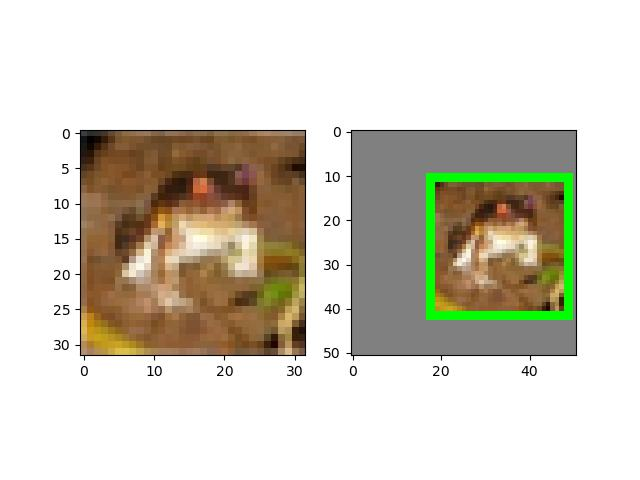
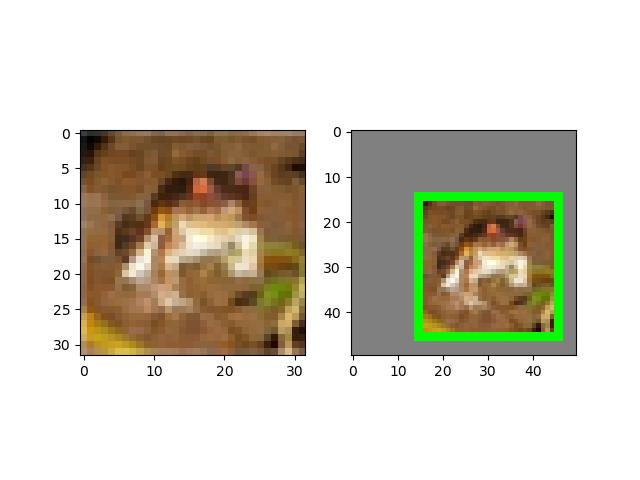
good

diff --git a/CNN_cifar10_detection/train_val.py b/CNN_cifar10_detection/train_val.py
@@ -2,44 +2,133 @@ from torch import optim, nn
 import torch
 import os.path as osp
 from tqdm import tqdm
-from torch.utils.tensorboard import summaryWriter
+from torch.utils.tensorboard import SummaryWriter
 
 from config import epochs, device, data_folder, epochs, checkpoint_folder
 from data import create_datasets
 from model import vgg11
 
+# 這裡為後續的回歸問題預留了一些程式
 def train_val(net, trainloader, valloader, criteron, epochs, device, model_name="cls"):
-    best_ass = 0.0
+    best_acc = 0.0
     best_loss = 1e9
-    writer = summaryWriter("log")
+    writer = SummaryWriter("log")
+    # 如果模型檔案已經存在，先載入模型檔案再在此基礎上訓練
     if osp.exists(osp.join(checkpoint_folder, model_name + ".pth")):
         net.load_state_dict(
             torch.load(osp.join(checkpoint_folder, model_name + ".pth"))
         )
-        print("模型已在入")
+        print("模型已載入")
     for n, (num_epochs, lr) in enumerate(epochs):
-        optimizer = optim.SGD(net.parameters(),lr=lr, weight_decay=5e4, momentum=0.9)
+
+        optimizer = optim.SGD(net.parameters(),lr=lr, weight_decay=5e-4, momentum=0.9)
+        # 迴圈多次
         for epoch in range(num_epochs):
+            print(f'第 {epoch} 個 epoch 開始訓練')
             net.train()
             epoch_loss = 0.0
             epoch_acc = 0.0
+            # print(f'trainloader_size: {len(trainloader)}')
+            # print(f'trainloader_enumerate: {trainloader_enumerate}')
             for i, (img, lable) in tqdm(enumerate(trainloader), total=len(trainloader)):
+                # 將圖片與標籤都移動到GPU中
                 img, label = img.to(device), lable.to(device)
                 output = net(img)
+                # 清空梯度
                 optimizer.zero_grad()
+                # 計算損失
                 loss = criteron(output, label)
+                # 反向傳播
                 loss.backward()
+                # 更新參數
                 optimizer.step()
+                # 分類問題容易使用準確率來衡量模型效果
+                # 但是回歸模型無法按照分類問題的方法來計算準確率
                 if model_name == "cls":
                     pred = torch.argmax(output, dim=1)
                     acc = torch.sum(pred == label)
+                    # 累計準確率
                     epoch_acc += acc.item()
+                # print(f'batch_size >> img.shape[0] : {img.shape[0]}')
+                # print(f'loss.item(): {loss.item()}')
+                # print(f'epoch_loss: {epoch_loss}')
                 epoch_loss += loss.item() * img.shape[0]
+
             # 計算這個epoch的平均損失
+            
+            # print(f'trainloader_dataset: {len(trainloader.dataset)}')
             epoch_loss /= len(trainloader.dataset)
             if model_name == "cls":
+                # 計算這個 epoch_acc 的平均準確率 
                 epoch_acc /= len(trainloader.dataset)
                 print(
-                    "epoch_acc:{:.8f} epoch accuracy : {:.8f}".format(epoch_loss,epoch_acc)
+                    "epoch_acc: {:.8f} epoch accuracy : {:.8f}".format(epoch_loss, epoch_acc)
                 )
-                
+                # 將損失增加到 TensorBoard 中
+                writer.add_scalar(
+                    "epoch_loss_{}".format(model_name),epoch_loss,
+                    sum([e[0] for e in epochs[:n]]) + epoch
+                )
+                # 將準確率增加到 TensorBoard 中
+                writer.add_scalar(
+                    "epoch_acc_{}".format(model_name), epoch_acc,
+                    sum([e[0] for e in epochs[:n]]) + epoch
+                )
+            else:
+                print("epoch loss: {:.8f}".format(epoch_loss))
+                writer.add_scalar(
+                    "epoch_loss_{}".format(model_name), epoch_loss,
+                    sum([e[0] for e in epochs[:n]]) + epoch
+                )
+            # 無梯度模式下快速驗證
+            with torch.no_grad():
+                # 將 net 設定為驗證模式
+                net.eval()
+                val_loss = 0.0
+                val_acc = 0.0
+                for i, (img, lable) in tqdm(enumerate(valloader), total=len(valloader)):
+                    img, label = img.to(device), lable.to(device)
+                    output = net(img)
+                    loss = criteron(output, label)
+                    if model_name == "cls":
+                        pred = torch.argmax(output, dim=1)
+                        acc = torch.sum(pred == label)
+                        val_acc += acc.item()
+                    val_loss += loss.item() * img.shape[0]
+                # 計算這個epoch的平均損失
+                val_loss /= len(valloader.dataset)
+                val_acc /= len(valloader.dataset)
+                if model_name == "cls":
+                    # 如果驗證之後的模型超過了目前最好的模型
+                    if val_acc > best_acc:
+                        # 更新 best_acc
+                        best_acc = val_acc
+                        # 保存模型
+                        torch.save(
+                            net.state_dict(),
+                            osp.join(checkpoint_folder, model_name + ".pth")
+                        )
+                    print(
+                        "validation loss: {:.8f} validation accuracy:{:.8f}".format(val_loss, val_acc)
+                    )
+                    writer.add_scalar(
+                        "validation_loss_{}".format(model_name), val_loss, sum([e[0] for e in epoch[:n]]) + epoch
+                    )
+                else:
+                    # 如果得到的損失比當前最好的損失還好
+                    if val_loss < best_loss:
+                        best_loss = val_loss
+                        # 保存模型
+                        torch.save(
+                            net.state_dict(),
+                            osp.join(checkpoint_folder, model_name + ".pth")
+                        )
+                    print("validation loss:{:8f}".format(val_loss))
+                    writer.add_scalar(
+                        "epoch_loss_{}".format(model_name), val_loss,sum([e[0] for e in epochs[:n]]) + epoch
+                    )
+    writer.close()
+
+
+if __name__ == "__main__":
+    trainloader, valloader = create_datasets(data_folder)

diff --git a/CNN_cifar10_detection/demo_regression.py b/CNN_cifar10_detection/demo_regression.py
@@ -1,0 +1,62 @@
+import torch
+from torch import nn
+from torchvision.transforms import ToTensor
+from PIL import Image, ImageDraw
+from numpy import random
+import numpy as np
+import os.path as osp
+
+from model import resnet18
+from generate_data import expand
+from config import checkpoint_folder
+
+def expand(img, background=(128,128,128), show=False):
+    height, width, depth = img.shape
+    ratio = random.uniform(1,2)
+    left = random.uniform(0.3 * width, width * ratio - width)
+    top = random.uniform(0.3 * height, height * ratio - height)
+    while int(left + width) > int(width*ratio) or int(top + height) > int(height*ratio):
+        ratio = random.uniform(1, 2)
+        left = random.uniform(0.3* width, width * ratio - width)
+        top = random.uniform(0.3* height, height * ratio - height)
+    # 背景圖片
+    expand_img = np.zeros((int(height * ratio), int(width * ratio), depth), dtype = img.dtype)
+    # 背景填充成灰色
+    expand_img[:,:,:] = background
+    # 貼上圖片
+    expand_img[int(top):int(top+height), int(left):int(left+width)] = img
+
+    return expand_img
+
+
+if __name__ == "__main__":
+    # 載入模型
+    net = resnet18()
+    net.linear = nn.Linear(in_features=512, out_features=4, bias=True)
+    net.eval()
+    totensor = ToTensor()
+    net.load_state_dict(torch.load(osp.join(checkpoint_folder,"reg.pth")))
+
+    #讀取圖片
+    img_path = "img/plane.jpg"
+    img = Image.open(img_path)
+    img = np.array(img)
+    expand_img = expand(img)
+    height, width = expand_img.shape[:2]
+
+    # 對座標進行解碼
+    inp = totensor(Image.fromarray((expand_img)).resize((32, 32))).unsqueeze(0)
+    out = net(inp)
+    xmin, ymin, xmax, ymax = out.view(-1)
+    xmin, ymin, xmax, ymax = (
+        xmin * width,
+        ymin * height,
+        xmax * width,
+        ymax * height
+    )
+    # 繪製預測圖片
+    expand_img = Image.fromarray(expand_img)
+    draw = ImageDraw.ImageDraw(expand_img)
+    draw.rectangle([(xmin, ymin), (xmax, ymax)], outline=(0, 255, 0), width=10)
+    expand_img.save("img/plane_bound_pred.jpg")
+    expand_img.show()

diff --git a/CNN_cifar10_detection/generate_data.py b/CNN_cifar10_detection/generate_data.py
@@ -20,16 +20,16 @@ def expand(img, background=(128,128,128), show=False):
     # 左邊界位置
     left = random.uniform(0.3 * width, width * ratio - width)
     # 上邊界位置
-    top = random.uniform(0.3 * width, width * ratio - width)
+    top = random.uniform(0.3 * height, height * ratio - height)
     while int(left + width) > int(width*ratio) or int(top + height) > int(height*ratio):
         ratio = random.uniform(1, 2)
         left = random.uniform(0.3* width, width * ratio - width)
-        top = random.uniform(0.3* width, width * ratio - width)
+        top = random.uniform(0.3* height, height * ratio - height)
     # 建立白色背景
     expand_img = np.zeros((int(height * ratio), int(width * ratio), depth), dtype = img.dtype)
     # 背景填充成灰色
     expand_img[:,:,:] = background
-    print(f'expand_img_size:{expand_img.shape}')
+    # print(f'expand_img_size:{expand_img.shape}')
     # 將圖片按先前生成的隨機位置貼上到背景中
     expand_img[int(top):int(top+height), int(left):int(left+width)] = img
 
@@ -74,8 +74,10 @@ class BoxData(Dataset):
 
     def __getitem__(self, index):
         img, lable = self.dataset[index]
+        # print(f'img: {img}')
         # 使用線上生成的方式，將轉換函數加入Dataset中
         img, box = expand(img, show=self.show)
+        return img, box
     
     def __len__(self):
         return len(self.dataset)

diff --git a/CNN_cifar10_detection/train_val_regression.py b/CNN_cifar10_detection/train_val_regression.py
@@ -1,0 +1,35 @@
+import torch
+from torch import nn, optim
+from torch.utils.data import DataLoader
+from tqdm import tqdm
+from lr_find import lr_find
+from model import resnet18
+from data import create_datasets
+from config import data_folder, batch_size, device, epochs
+from generate_data import BoxData
+from train_val import train_val
+
+# 修改 ResNet 的最後一層的輸出
+net = resnet18()
+net.linear = nn.Linear(in_features=512, out_features=4, bias=True)
+# 載入並封裝 CIFAR-10 資料
+train_loader, val_loader = create_datasets(data_folder)
+# 將模型遷移到 GPU
+net.to(device)
+# 將 CIFAR-10 資料轉換成邊框檢測資料
+traindata = BoxData(train_loader.dataset)
+# trainloader = DataLoader(traindata, batch_size=batch_size, shuffle=True, num_workers = 4)
+trainloader = DataLoader(traindata, batch_size=batch_size, shuffle=True)
+# 以 L1Loss作為損失函數
+criteron = nn.L1Loss()
+# 載入驗證資料
+valdata = BoxData(val_loader.dataset)
+# valloader = DataLoader(valdata, batch_size=batch_size, shuffle=True, num_workers= 4)
+valloader = DataLoader(valdata, batch_size=batch_size, shuffle=True)
+#  預先進行學習率搜尋，根據曲線確定初始學習率
+# best_lr = lr_find(net, optim.SGD, train_loader, criteron)
+# print("best_lr", best_lr)
+# 訓練模型
+train_val(
+    net, trainloader, valloader, criteron, epochs, device, model_name="reg"
+)

diff --git a/CNN_cifar10_detection/data.py b/CNN_cifar10_detection/data.py
@@ -24,15 +24,13 @@ def create_datasets(data_folder, transform_train=None, transform_test=None):
     trainset = torchvision.datasets.CIFAR10(
         root = data_folder, train=True, download=True, transform=transform_train
     )
-    trainloader = torch.utils.data.DataLoader(
-        trainset, batch_size=batch_size, shuffle=True, num_workers=2
-    )
+    # trainloader = torch.utils.data.DataLoader(trainset, batch_size=batch_size, shuffle=True, num_workers=2)
+    trainloader = torch.utils.data.DataLoader(trainset, batch_size=batch_size, shuffle=True)
     # 測試集
     testset = torchvision.datasets.CIFAR10(
         root = data_folder, train=False, download=True, transform=transform_test
     )
-    testloader = torch.utils.data.DataLoader(
-        testset, batch_size=batch_size, shuffle=False, num_workers=2
-    )
+    # testloader = torch.utils.data.DataLoader(testset, batch_size=batch_size, shuffle=False, num_workers=2)
+    testloader = torch.utils.data.DataLoader(testset, batch_size=batch_size, shuffle=False)
 
     return trainloader, testloader

diff --git a/CNN_cifar10_detection/captcha_data.py b/CNN_cifar10_detection/captcha_data.py
@@ -1,0 +1,21 @@
+from torch.utils.data import Dataset, DataLoader
+from torchvision import transforms
+import torch
+from captcha.image import ImageCaptcha
+from randon import randint, seed
+import matplotlib.pyplot as plt
+from tqdm import tqdm
+
+char_list = [
+    "0","1","2","3","4","5","6","7","8","9",
+    "a","b","c","d","e","f","g","h","i","j","k","l",
+    "m","n","o","p","q","r","s","t","u","v","w","x",
+    ,"y","z"
+]
+
+class CaptchaData(Dataset):
+    def __init__(self, char_list, num=10000):
+        self.char_list = char_list
+        self. char2index={
+            self.char_list[i]: i for i in range(len(self.char_list))
+        }

diff --git a/CNN_cifar10_detection/config.py b/CNN_cifar10_detection/config.py
@@ -2,9 +2,9 @@ import torch
 device = (
     torch.device("cuda") if torch.cuda.is_available() else torch.device("cpu")
 )
-
-data_folder = 'F:GitHub/pytorch2_practise/datasets/CIFAR10'
-checkpoint_folder = 'F:GitHub/pytorch2_practise/checkpoints/chapter_one'
+# data_folder = "F:\\GitHub\\pytorch2_practise\\datasets\\CIFAR10"
+data_folder = 'F:/GitHub/pytorch2_practise/datasets/CIFAR10'
+checkpoint_folder = 'F:/GitHub/pytorch2_practise/CNN_cifar10_detection/checkpoints/chapeter_04'
 batch_size = 64
 epochs = [(30,0.001),(20,0.001),(10,0.0001)]
 
